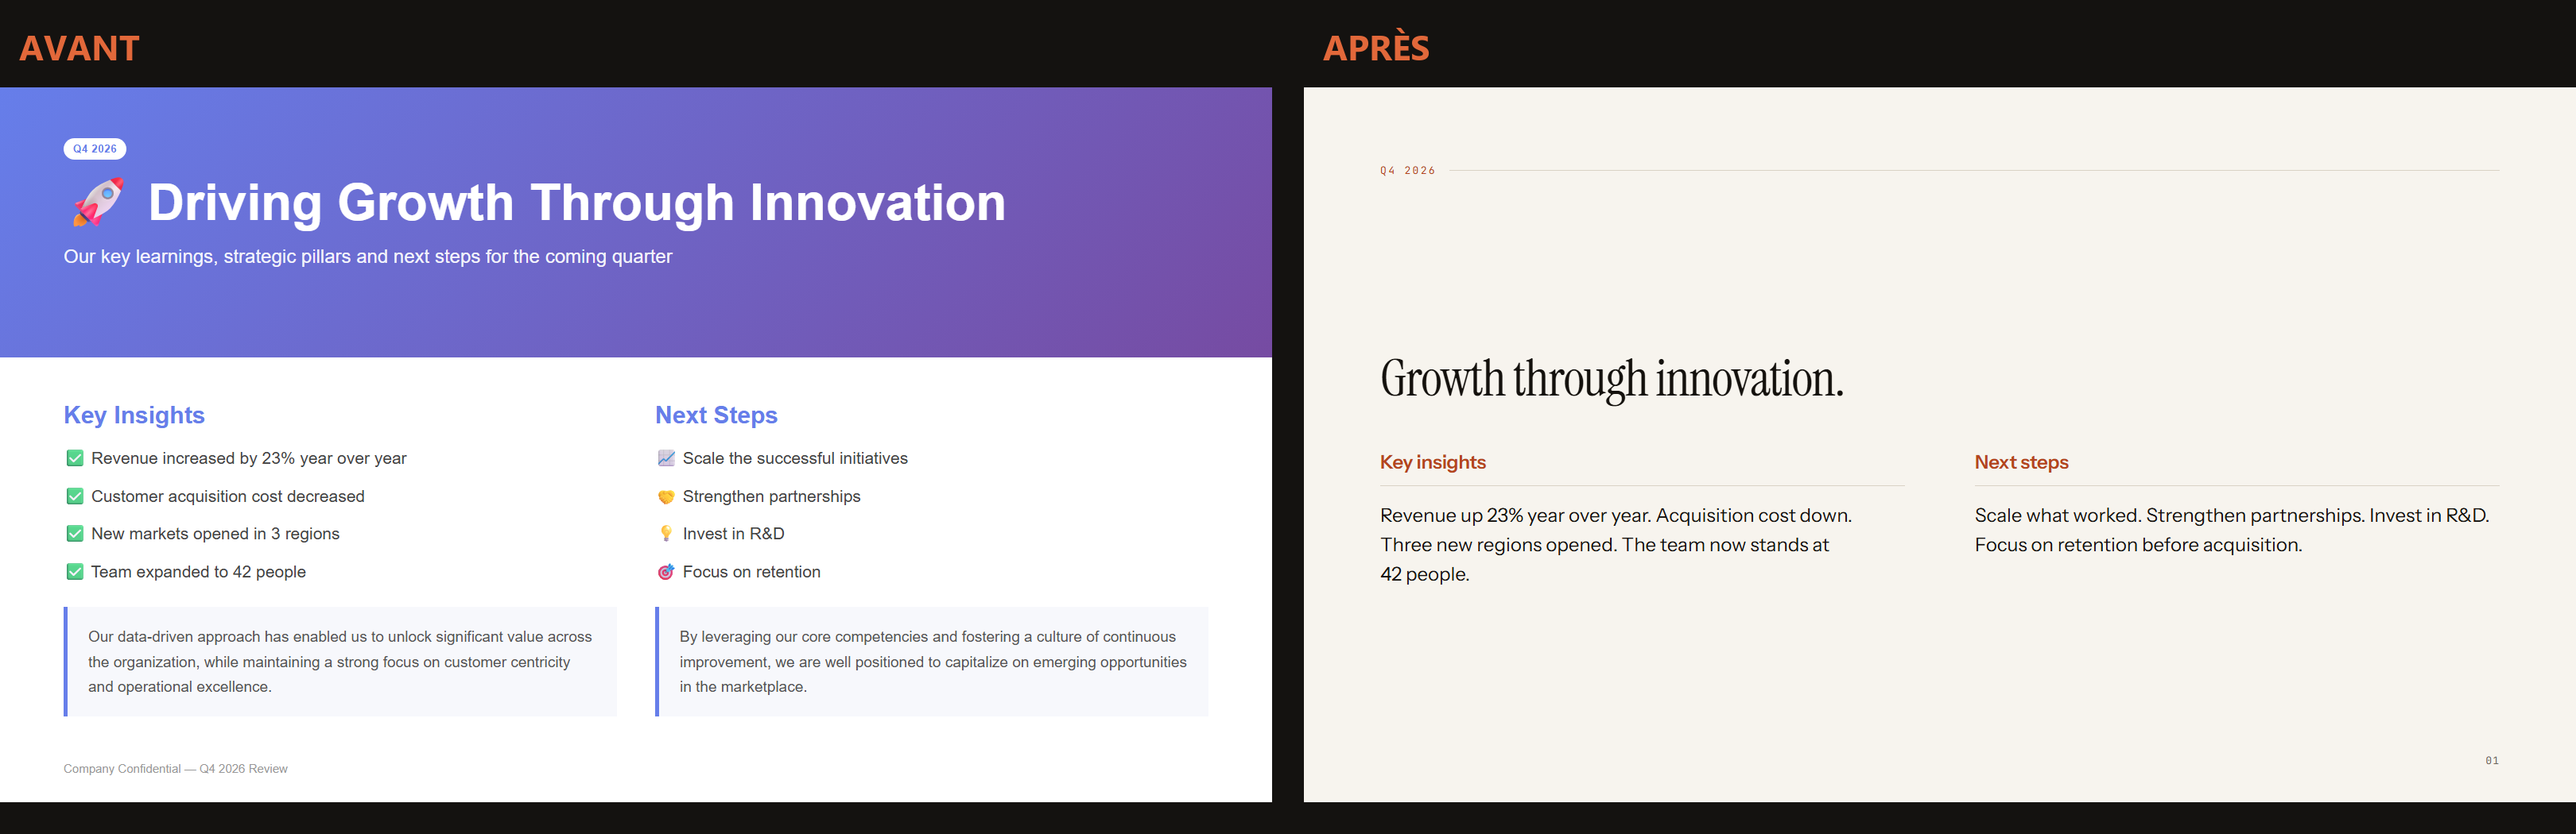
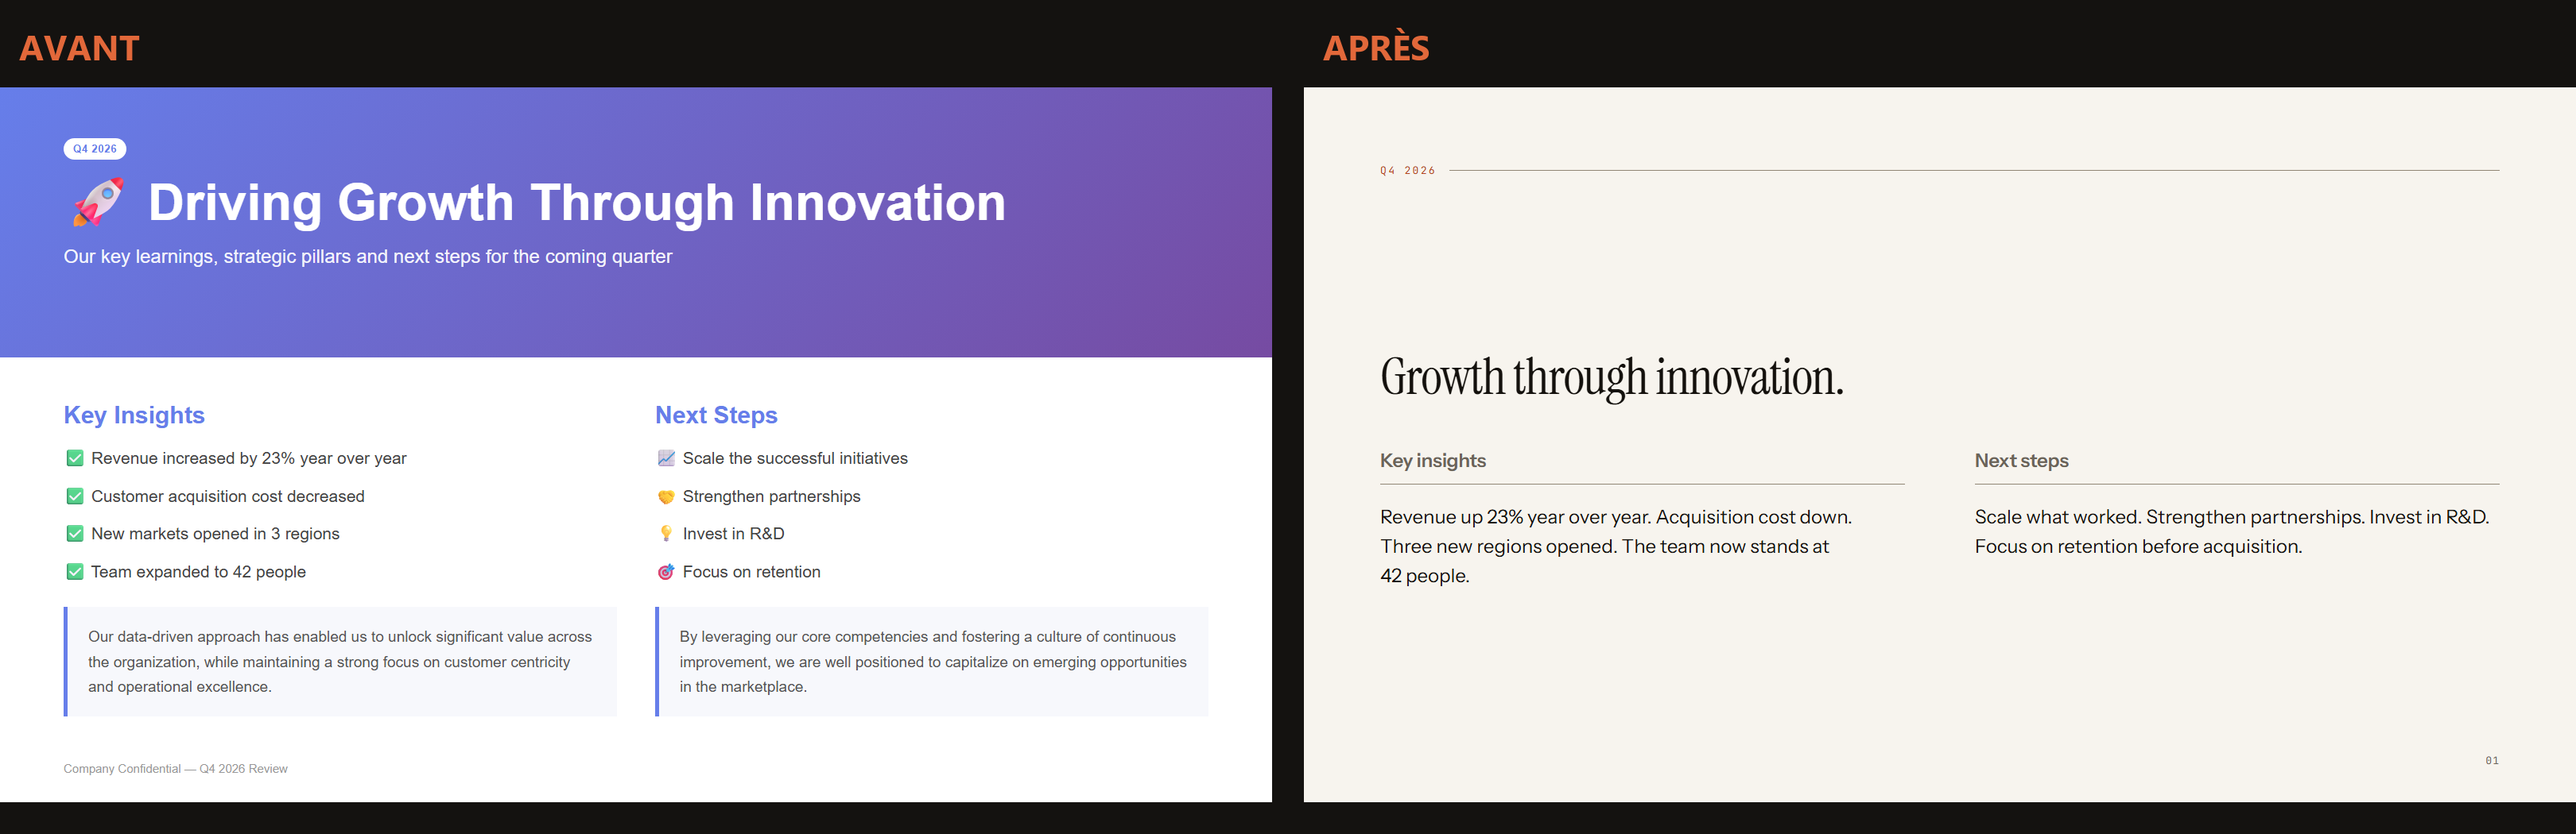
Review pass 2: real before/after panel, legible rules (3:1), accent on the figure, HTML caption, readable CTA

diff --git a/assets/deck.css b/assets/deck.css
@@ -13,7 +13,7 @@
   --paper: #f7f4ee;
   --ink: #14110d;
   --muted: #6b6459;
-  --rule: #d9d2c5;
+  --rule: #918675;
   --accent: #b4451f;
   --accent-ink: #fffaf4;
   --mark: #e8e0d2;
@@ -27,7 +27,7 @@
   --paper: #12110f;
   --ink: #f3efe7;
   --muted: #908a7e;
-  --rule: #2b2823;
+  --rule: #6e6558;
   --accent: #e2683a;
   --accent-ink: #17140f;
   --mark: #232019;
@@ -37,7 +37,7 @@
   --paper: #0d1620;
   --ink: #eef3f7;
   --muted: #82959f;
-  --rule: #1f2d39;
+  --rule: #596570;
   --accent: #f0b429;
   --accent-ink: #0d1620;
   --mark: #16232e;
@@ -183,7 +183,7 @@ em { font-style: italic; color: var(--accent); }
 }
 
 /* ---------- 2. section ---------- */
-.slide--section { justify-content: center; gap: 22px; }
+.slide--section { justify-content: center; gap: 22px; padding-bottom: calc(var(--pad) + var(--head)); }
 .slide--section .num {
   font-family: var(--serif);
   font-size: 208px;
@@ -204,14 +204,63 @@ em { font-style: italic; color: var(--accent); }
 }
 .slide--two-col .col h3 {
   padding-bottom: 14px;
-  margin-bottom: 18px;
+  margin-bottom: 22px;
   border-bottom: 1px solid var(--rule);
-  color: var(--accent);
+  color: var(--muted);
+}
+.slide--two-col .col--win h3 { color: var(--accent); }
+
+/* panneaux de démonstration (avant / après) */
+.mini {
+  position: relative;
+  height: 292px;
+  padding: 18px 20px;
+  overflow: hidden;
+  border: 1px solid var(--rule);
+}
+.mini--before {
+  background: #fff;
+  border-color: #d5d5d5;
+  font-family: Arial, Helvetica, sans-serif;
+  color: #333;
+}
+.mini--before .bar {
+  position: absolute; inset: 0 0 auto 0; height: 92px;
+  background: linear-gradient(135deg, #667eea, #764ba2);
+}
+.mini--before .t { position: relative; color: #fff; font-size: 21px; font-weight: 700; }
+.mini--before .badge {
+  position: relative; display: inline-block; background: #fff; color: #667eea;
+  font-size: 8px; font-weight: 700; letter-spacing: .08em; padding: 3px 7px;
+  border-radius: 99px; margin-bottom: 7px;
+}
+.mini--before ul { position: relative; list-style: none; margin-top: 30px; }
+.mini--before li { font-size: 12.5px; line-height: 2; color: #555; }
+.mini--before .txt {
+  font-size: 11px; line-height: 1.55; color: #6b6b6b;
+  margin-top: 12px; padding: 10px 12px; background: #f7f8fc; border-left: 3px solid #667eea;
+}
+.mini--after { background: var(--paper); }
+.mini--after .k {
+  font-family: var(--mono); font-size: 8.5px; letter-spacing: .16em;
+  text-transform: uppercase; color: var(--accent);
+}
+.mini--after h4 {
+  font-family: var(--serif); font-weight: 400; font-size: 36px;
+  line-height: 1.06; letter-spacing: -.022em; margin-top: 12px;
+}
+.mini--after .txt {
+  font-size: 12.5px; line-height: 1.6; color: var(--muted);
+  margin-top: 16px; max-width: 30ch;
+}
+.mini--after .acc {
+  position: absolute; left: 20px; bottom: 18px; width: 64px; height: 2px;
+  background: var(--accent);
 }
 .slide--two-col .col p + p { margin-top: 18px; }
 
 /* ---------- 4. citation ---------- */
-.slide--quote { justify-content: center; }
+.slide--quote { justify-content: center; padding-bottom: calc(var(--pad) + var(--head)); }
 .slide--quote blockquote {
   font-family: var(--serif);
   font-size: 116px;
@@ -230,7 +279,7 @@ em { font-style: italic; color: var(--accent); }
 }
 .slide--quote .attrib {
   margin-top: 48px;
-  font-size: 19px;
+  font-size: 22px;
   color: var(--muted);
   display: flex;
   align-items: center;
@@ -259,7 +308,7 @@ em { font-style: italic; color: var(--accent); }
 .slide--data .figure .unit {
   font-size: .30em;
   transform: translateY(-0.06em);
-  color: var(--accent);
+  color: var(--ink);
   letter-spacing: -.01em;
 }
 .slide--data .row {
@@ -295,7 +344,13 @@ em { font-style: italic; color: var(--accent); }
   color: #fff;
   max-width: 28em;
 }
-.slide--full .caption h3 { color: #fff; margin-bottom: 10px; font-size: 31px; letter-spacing: -.015em; }
+.slide--full .caption h2 {
+  color: #fff;
+  font-size: 50px;
+  line-height: 1.04;
+  margin-bottom: 14px;
+}
+.slide--full .caption h3 { color: #fff; margin-bottom: 8px; font-size: 31px; letter-spacing: -.015em; }
 .slide--full .caption p { color: rgba(255,255,255,.82); font-size: 19px; line-height: 1.5; }
 .slide--full::after { color: rgba(255,255,255,.6); }
 
@@ -308,7 +363,7 @@ em { font-style: italic; color: var(--accent); }
 }
 .slide--list .item {
   display: grid;
-  grid-template-columns: 56px minmax(0, 1fr) 430px;
+  grid-template-columns: 56px minmax(0, 1fr) 400px;
   gap: 32px;
   align-items: baseline;
   padding: 26px 0;
@@ -318,25 +373,28 @@ em { font-style: italic; color: var(--accent); }
 .slide--list .n {
   font-family: var(--mono);
   font-size: 14px;
-  color: var(--accent);
+  color: var(--muted);
   padding-top: 6px;
 }
 .slide--list .t { font-size: 34px; line-height: 1.2; letter-spacing: -.014em; }
-.slide--list .d { font-size: 19px; color: var(--muted); line-height: 1.45; text-align: left; }
+.slide--list .d { font-size: 19px; color: var(--muted); line-height: 1.45; text-align: left; justify-self: end; }
 
 /* ---------- 8. fin ---------- */
 .slide--end { justify-content: flex-end; }
 .slide--end .display { max-width: 11em; }
 .slide--end .contact {
   margin-top: 44px;
-  padding-top: 24px;
+  padding-top: 26px;
   border-top: 1px solid var(--rule);
   display: flex;
-  gap: 60px;
+  align-items: baseline;
+  gap: 64px;
   font-family: var(--mono);
-  font-size: 16px;
-  color: var(--muted);
+  font-size: 26px;
+  color: var(--ink);
 }
+.slide--end .contact .cmd { color: var(--accent); }
+.slide--end .contact .url { font-size: 17px; color: var(--muted); }
 
 /* ---------- accessibilité ---------- */
 .sr-only {

diff --git a/examples/pitch/06.html b/examples/pitch/06.html
@@ -4,13 +4,27 @@
   <div class="cols">
     <div class="col">
       <h3>Généré par défaut</h3>
-      <p class="body">Le fond est blanc parce que c&rsquo;est le défaut. Les titres ont la même graisse que le corps. Tout occupe la page, parce que le vide fait peur.</p>
-      <p class="body">Le lecteur comprend le contenu. Il doute de l&rsquo;auteur.</p>
+      <div class="mini mini--before">
+        <div class="bar"></div>
+        <span class="badge">Q4 2026</span>
+        <div class="t">&#128640; Driving Growth</div>
+        <ul>
+          <li>&#9989; Revenue up 23% year over year</li>
+          <li>&#9989; Acquisition cost down</li>
+          <li>&#9989; Three new regions</li>
+          <li>&#9989; Team of 42 people</li>
+        </ul>
+        <p class="txt">Our data-driven approach has enabled us to unlock significant value across the organization.</p>
+      </div>
     </div>
-    <div class="col">
+    <div class="col col--win">
       <h3>Avec Deckhand</h3>
-      <p class="body">Une serif pour porter la voix, une sans pour le propos. Une seule couleur d&rsquo;accent, utilisée une seule fois par slide.</p>
-      <p class="body">Le lecteur comprend le contenu. Il fait confiance à l&rsquo;auteur.</p>
+      <div class="mini mini--after">
+        <div class="k">Q4 2026</div>
+        <h4>Growth through<br>innovation.</h4>
+        <p class="txt">Revenue up 23%. Acquisition cost down. Three new regions. Team of 42.</p>
+        <div class="acc"></div>
+      </div>
     </div>
   </div>
 </section>

diff --git a/examples/pitch/04.html b/examples/pitch/04.html
@@ -1,11 +1,11 @@
 <section class="slide slide--data" data-n="04">
   <div class="kicker">Le système</div>
-  <h2 class="figure">8<span class="unit">&nbsp;layouts</span></h2>
+  <h2 class="figure"><span class="accent">8</span><span class="unit">layouts</span></h2>
   <div class="row">
-    <p class="lede">Huit structures éditoriales couvrent un deck entier, de la couverture à la conclusion. Rien de plus, rien d&rsquo;improvisé.</p>
+    <p class="lede">Huit structures éditoriales couvrent un deck entier, de la couverture à la conclusion.</p>
     <div class="notes">
       <p class="small">Couverture, section, colonnes, citation, donnée, plein cadre, liste, fin.</p>
-      <p class="small">Un seul fichier CSS. Aucune dépendance, aucune webfont, aucune clé.</p>
+      <p class="small">Un seul fichier CSS. Aucune dépendance, aucune webfont distante, aucune clé.</p>
     </div>
   </div>
 </section>

diff --git a/examples/pitch/07.html b/examples/pitch/07.html
@@ -1,7 +1,7 @@
 <section class="slide slide--full" data-n="07">
   <div class="media" style="background-image:url('plate.svg')"></div>
   <div class="caption">
-    <h3>Le vide n&rsquo;est pas un manque.</h3>
+    <h2 class="h2">Le vide n&rsquo;est pas un manque.</h2>
     <p>C&rsquo;est la respiration du propos. Une slide qui respire se lit ; une slide saturée s&rsquo;endure.</p>
   </div>
 </section>

diff --git a/examples/pitch/08.html b/examples/pitch/08.html
@@ -2,7 +2,7 @@
   <div class="kicker">Deckhand</div>
   <h1 class="display">Installez&#8209;le.</h1>
   <div class="contact">
-    <span>npx deckhand build</span>
-    <span>github.com/iruzen-dono/deckhand</span>
+    <span class="cmd">npx github:iruzen-dono/deckhand build</span>
+    <span class="url">github.com/iruzen-dono/deckhand</span>
   </div>
 </section>

diff --git a/examples/pitch/02.html b/examples/pitch/02.html
@@ -1,5 +1,5 @@
 <section class="slide slide--section" data-n="02">
   <div class="kicker">Diagnostic</div>
   <div class="num">01</div>
-  <h1 class="h1">Le problème n&rsquo;est pas le contenu.<br>C&rsquo;est la mise en page.</h1>
+  <h1 class="h1">Ce n&rsquo;est pas le contenu.<br>C&rsquo;est la mise en page.</h1>
 </section>

diff --git a/README.md b/README.md
@@ -26,6 +26,10 @@ through Deckhand.
 ## Quick start
 
 ```bash
+# straight from the repo, no install
+npx github:iruzen-dono/deckhand build examples/pitch dist
+
+# or clone it
 git clone https://github.com/iruzen-dono/deckhand
 cd deckhand
 node bin/deckhand.js build examples/pitch dist
@@ -86,6 +90,14 @@ Add the class to the slide: `class="slide slide--quote theme-ink"`.
   background it sits on.
 - **Layout:** 1600×900, 96px margins, a 64px header band for the kicker.
 - **Output:** plain HTML. No build framework, no runtime, no npm install.
+
+## Verified, not claimed
+
+- **W3C HTML:** 0 errors, 0 warnings (`validator.w3.org/nu`)
+- **Overflow:** 0 defects across 8 slides, measured in the live DOM (`deckhand audit`)
+- **Contrast:** every text/background pair ≥ 4.5:1; structural rules ≥ 3:1
+- **PDF:** 8 pages, fonts embedded, 174 KB
+- **Output:** one 324 KB HTML file, fonts inlined, works offline
 
 ## What it isn't
 
